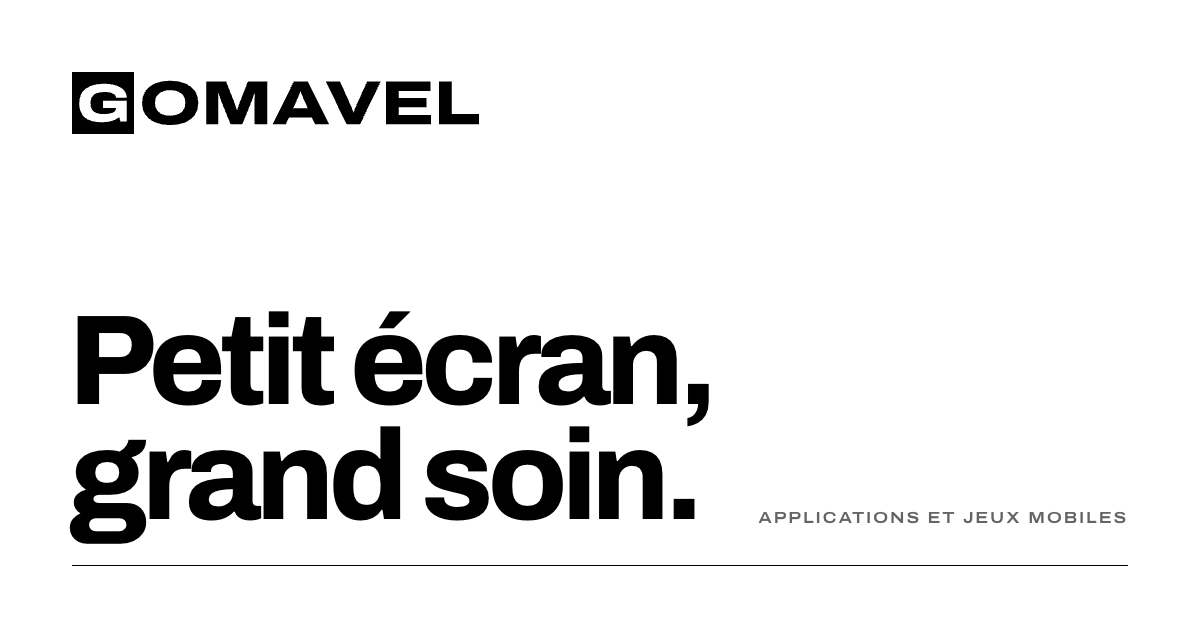
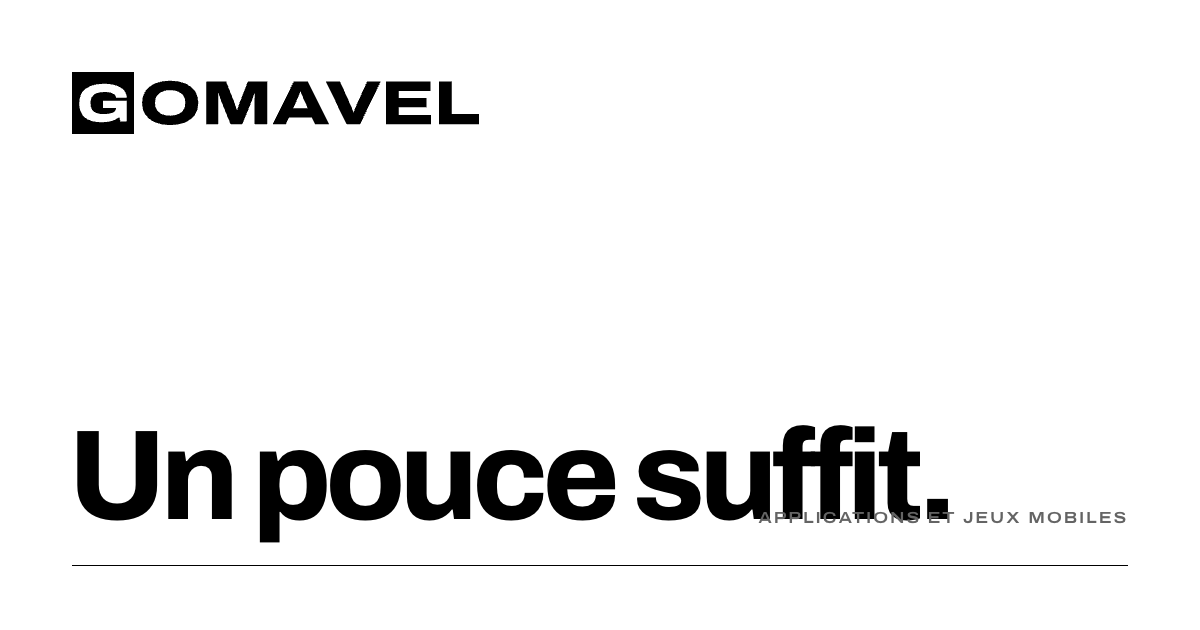
Menu rangé sur téléphone, page Nouveautés, accroche « Un pouce suffit. »
D'après supercell.com : trois traits à droite du logo qui ouvrent un panneau noir
listant les jeux ; un fil de nouveautés étiquetées par produit ; « Grand soin »
remplacé par « Les chances affichées ».

Changed region(s): [[0.0617, 0.4825, 0.8017, 0.8746]]

diff --git a/src/styles/global.css b/src/styles/global.css
@@ -142,15 +142,60 @@ p { text-wrap: pretty; }
 
 /* ─── En-tête ────────────────────────────────────────────────────────────────── */
 .entete { position: relative; z-index: 10; background: var(--blanc); }
-.entete-in { min-height: var(--entete); display: flex; align-items: center; justify-content: space-between; gap: 12px 24px; flex-wrap: wrap; padding-block: 18px; }
-.entete nav ul { display: flex; gap: 6px 30px; flex-wrap: wrap; }
-.entete nav a { font-size: 15px; font-weight: 500; text-decoration: none; padding-block: 4px; }
-.entete nav a[aria-current='page'] { background: linear-gradient(currentColor, currentColor) 0 100% / 100% 1px no-repeat; }
-@media (max-width: 520px) {
-  .entete nav ul { gap: 4px 20px; }
-  .entete nav a { font-size: 14px; }
+.entete-in { min-height: var(--entete); display: flex; align-items: center; justify-content: space-between; gap: 12px 24px; padding-block: 18px; }
+.nav-large ul { display: flex; gap: 6px 30px; flex-wrap: wrap; }
+.nav-large a { font-size: 15px; font-weight: 500; text-decoration: none; padding-block: 4px; }
+.nav-large a[aria-current='page'] { background: linear-gradient(currentColor, currentColor) 0 100% / 100% 1px no-repeat; }
+
+/* LE MENU RANGÉ (téléphone et tablette) : trois traits à droite du logo ; ouvert, un
+   panneau noir couvre la page sous l'en-tête, comme sur supercell.com — la bande noire
+   du studio, les jeux en gros. Les trois traits deviennent une croix. */
+.menu { display: none; }
+@media (max-width: 860px) {
+  .nav-large { display: none; }
+  .menu { display: block; }
   .logo-svg { height: 28px; }
 }
+.menu summary {
+  list-style: none; cursor: pointer; -webkit-tap-highlight-color: transparent;
+  display: grid; place-items: center; width: 48px; height: 48px; margin-right: -12px;
+}
+.menu summary::-webkit-details-marker { display: none; }
+.traits { position: relative; width: 26px; height: 18px; }
+.traits span {
+  position: absolute; left: 0; width: 100%; height: 2px; background: var(--noir);
+  transition: transform .35s var(--ease), opacity .2s;
+}
+.traits span:nth-child(1) { top: 0; }
+.traits span:nth-child(2) { top: 8px; }
+.traits span:nth-child(3) { top: 16px; }
+.menu[open] .traits span:nth-child(1) { transform: translateY(8px) rotate(45deg); }
+.menu[open] .traits span:nth-child(2) { opacity: 0; }
+.menu[open] .traits span:nth-child(3) { transform: translateY(-8px) rotate(-45deg); }
+.menu-panneau {
+  position: fixed; inset: var(--entete) 0 0 0; z-index: 20; overflow-y: auto;
+  background: var(--noir); color: var(--blanc);
+  padding: 36px var(--gout) calc(40px + env(safe-area-inset-bottom));
+  display: grid; align-content: start; gap: 40px;
+}
+@media (prefers-reduced-motion: no-preference) {
+  .menu[open] .menu-panneau { animation: panneau .4s var(--ease); }
+}
+@keyframes panneau { from { opacity: 0; transform: translateY(-12px); } }
+.menu-panneau .label { color: var(--gris-noir); margin-bottom: 14px; }
+.menu-panneau a { text-decoration: none; }
+.menu-groupe li + li { margin-top: 10px; }
+.menu-groupe a {
+  display: flex; align-items: baseline; gap: 14px;
+  font-weight: 740; font-size: clamp(32px, 9vw, 48px); line-height: 1.05; letter-spacing: -.035em;
+}
+.menu-num { font-weight: 620; font-size: 12px; font-stretch: 125%; letter-spacing: .12em; color: var(--gris-noir); }
+.menu-studio { border-top: 1px solid var(--filet-noir); padding-top: 24px; }
+.menu-studio li + li { margin-top: 6px; }
+.menu-studio a { display: block; padding-block: 6px; font-size: 22px; font-weight: 560; }
+.menu-panneau a[aria-current='page'] { text-decoration: underline; text-decoration-thickness: 2px; }
+/* Menu ouvert : la page dessous ne défile plus. */
+html:has(.menu[open]) { overflow: hidden; }
 
 /* ─── Accueil : l'accroche ───────────────────────────────────────────────────── */
 .ouverture { padding-block: clamp(48px, 9vw, 132px) clamp(56px, 8vw, 112px); }
@@ -337,3 +382,43 @@ p { text-wrap: pretty; }
 @media (prefers-reduced-motion: reduce) {
   *, *::before, *::after { animation-duration: .001ms !important; animation-iteration-count: 1 !important; transition-duration: .001ms !important; scroll-behavior: auto !important; }
 }
+
+/* ─── Nouveautés ─────────────────────────────────────────────────────────────── */
+/* Un fil de cartes, comme sur supercell.com : l'étiquette du produit en capitales dans un
+   filet noir, l'état ou la date, le titre, deux phrases. L'image du produit, quand il y en
+   a une, est posée dans le cadre à passe-partout (la couleur n'entre que par là). */
+.fil { margin-top: clamp(48px, 7vw, 88px); }
+.cartes { margin-top: 18px; border-top: 1px solid var(--noir); }
+.carte {
+  display: grid; grid-template-columns: 200px minmax(0, 1fr); gap: 20px clamp(24px, 4vw, 48px);
+  align-items: center; padding-block: clamp(24px, 3vw, 36px); border-bottom: 1px solid var(--filet);
+}
+.carte.sans-image { grid-template-columns: minmax(0, 1fr); }
+.carte-image { padding: var(--mat); }
+.carte-image img { width: 100%; aspect-ratio: 1; object-fit: contain; }
+.carte-texte { max-width: 60ch; }
+.carte-meta { display: flex; align-items: center; flex-wrap: wrap; gap: 8px 14px; font-size: 14px; }
+.etiquette {
+  font-weight: 620; font-size: 11px; line-height: 1; font-stretch: 125%; letter-spacing: .12em; text-transform: uppercase;
+  border: 1px solid var(--noir); padding: 7px 10px 6px; text-decoration: none;
+}
+a.etiquette:hover { background: var(--noir); color: var(--blanc); }
+.carte h3 { margin-top: 14px; font-weight: 720; font-size: clamp(24px, 3vw, 34px); line-height: 1.08; letter-spacing: -.03em; }
+.carte h3 + p { margin-top: 10px; color: #333; max-width: 52ch; }
+/* Sur téléphone, l'image passe à droite de l'étiquette et du titre, et les deux phrases
+   reprennent toute la largeur dessous (sinon une colonne de quatre mots par ligne). */
+@media (max-width: 760px) {
+  .carte { grid-template-columns: minmax(0, 1fr) 96px; grid-template-areas: 'meta image' 'titre image' 'texte texte'; gap: 0 16px; align-items: start; }
+  .carte.sans-image { grid-template-areas: 'meta' 'titre' 'texte'; }
+  .carte-texte { display: contents; }
+  .carte-meta { grid-area: meta; }
+  .carte h3 { grid-area: titre; }
+  .carte h3 + p { grid-area: texte; }
+  .carte-image { grid-area: image; padding: 6px; }
+}
+
+/* ─── Accueil : le renvoi vers les nouveautés ───────────────────────────────── */
+.renvoi { padding-block: clamp(72px, 10vw, 140px); display: grid; grid-template-columns: minmax(0, 1fr) auto; gap: 24px 48px; align-items: end; }
+.renvoi .label { color: var(--gris); }
+.renvoi h2 { margin-top: 16px; font-weight: 740; font-size: clamp(32px, 4.6vw, 64px); line-height: 1; letter-spacing: -.04em; max-width: 16ch; }
+@media (max-width: 760px) { .renvoi { grid-template-columns: minmax(0, 1fr); } }

diff --git a/src/data/nouveautes.js b/src/data/nouveautes.js
@@ -1,0 +1,74 @@
+/**
+ * LES NOUVEAUTÉS — ce qui arrive, puis ce qui est déjà arrivé.
+ *
+ * Sa demande du 12/10, d'après supercell.com (dont l'accueil est un fil d'actualités,
+ * chaque carte étiquetée du nom de son jeu) : « une page d'info sur les nouveautés qui
+ * arrivent ». Une entrée = une carte : l'étiquette (le produit, ou le studio), l'état,
+ * un titre, deux phrases, et parfois une image du produit dans un cadre (la couleur
+ * n'entre que par là, la règle du site).
+ *
+ * ⚠ CE QUI EST ANNONCÉ ICI DOIT ÊTRE DÉCIDÉ DANS LE DÉPÔT DU JEU (relu contre
+ * ninja-runner/A-FAIRE.md le 12/10/2026) :
+ *   - la roue du jour : W1, ses 24 réponses du 11/10 (3 tours par jour chacun contre une
+ *     pub, pièces, diamants, caisse, caisse rare qu'on ne trouve que là, chances derrière
+ *     un « i ») ; la sauvegarde et les images sont faites, l'écran pas encore ;
+ *   - le compte : A15, sa réponse du 30/09 (Apple, Google, e-mail ; pas de téléphone) ;
+ *     il attend son projet Firebase et le programme Apple : d'où « En préparation » ;
+ *   - les huit langues : A14, faites le 30/09, la dernière passe avant la sortie ;
+ *   - AUCUNE DATE pour ce qui arrive : la date de sortie est levée depuis le 30/09
+ *     (« je préfère prendre mon temps »). « Bientôt » = c'est en cours de construction ;
+ *     « En préparation » = décidé, pas commencé.
+ * Le jour où une nouveauté sort dans le jeu, elle passe en `etat: 'sorti'` avec sa date
+ * et descend dans le journal.
+ *
+ * Le ton suit la règle du site : « tu » quand c'est un jeu qui parle, « vous » le studio.
+ */
+import caisseRare from '../assets/nouveautes/roue-caisse-rare.png';
+import kage from '../assets/produits/shuriken-storm/ninja-kage.png';
+
+export const ETATS = {
+  bientot: 'Bientôt',
+  preparation: 'En préparation',
+  sorti: 'Sorti',
+};
+
+export const NOUVEAUTES = [
+  {
+    produit: 'shuriken-storm',
+    etat: 'bientot',
+    titre: 'La roue du jour',
+    texte:
+      'Trois tours de roue chaque jour : des pièces, des diamants, une caisse, et parfois la caisse rare, qu’on ne trouve nulle part ailleurs. Les chances de chaque case sont écrites à côté.',
+    image: { src: caisseRare, alt: 'La caisse rare : une caisse bleu nuit cerclée d’or, un œuf doré sur la serrure.' },
+  },
+  {
+    produit: 'shuriken-storm',
+    etat: 'bientot',
+    titre: 'La sortie sur iPhone et Android',
+    texte:
+      'Shuriken Storm arrive sur l’App Store et Google Play. Pas de date : il sortira quand il sera prêt, pas avant.',
+    image: { src: kage, alt: 'Kage, le ninja bleu nuit à l’écharpe turquoise, en pleine course.' },
+  },
+  {
+    produit: 'shuriken-storm',
+    etat: 'bientot',
+    titre: 'Huit langues dès le premier jour',
+    texte:
+      'Français, anglais, allemand, espagnol, italien, portugais du Brésil, russe et chinois simplifié.',
+  },
+  {
+    produit: 'shuriken-storm',
+    etat: 'preparation',
+    titre: 'Ta partie sur tous tes appareils',
+    texte:
+      'Un compte, par Apple, Google ou e-mail, pour retrouver ta progression sur un autre téléphone et ne jamais la perdre.',
+  },
+  {
+    produit: null,
+    etat: 'sorti',
+    date: '2026-10-12',
+    titre: 'Gomavel ouvre son site',
+    texte:
+      'Chaque application et chaque jeu du studio y aura sa page, numérotée dans l’ordre de sortie. Shuriken Storm est le N°01.',
+  },
+];

diff --git a/src/data/site.js b/src/data/site.js
@@ -5,7 +5,13 @@
  *   - le studio fait des applications ET des jeux mobiles (des fiches de révision un
  *     jour, pas seulement des jeux) : rien ici ne doit parler du studio comme d'un
  *     studio de jeux vidéo seulement ;
- *   - l'accroche : « Petit écran, grand soin. » ;
+ *   - l'accroche : « Un pouce suffit. » (12/10 au soir). « Petit écran, grand soin. » (12/10) a été
+ *     retirée sur sa note « le slogan, faut vraiment le retravailler, mais je sais pas
+ *     comment » : « grand soin » ne disait rien qu'on puisse vérifier. Celle-ci est une
+ *     promesse concrète, vraie de Shuriken Storm (un seul geste, toucher pour sauter) et
+ *     qui devient une RÈGLE pour les produits suivants, applis de révision comprises :
+ *     tout doit se faire d'un pouce. Avis d'Astra : n° 2 de son classement, derrière
+ *     « À portée de pouce. », plus douce mais moins frappante ;
  *   - le ton : sobre pour le studio (« Gomavel… », vous), complice sur la page d'un
  *     jeu (tu), comme dans le jeu lui-même ;
  *   - rien sur la façon dont les jeux sont fabriqués ;
@@ -15,7 +21,7 @@
  */
 export const SITE = {
   nom: 'Gomavel',
-  accroche: 'Petit écran, grand soin.',
+  accroche: 'Un pouce suffit.',
   description:
     "Gomavel est un studio indépendant d'applications et de jeux mobiles, en France. Peu de produits, faits avec soin, pour iPhone et Android.",
   /* L'ADRESSE OÙ VIT LE SITE : elle fait les liens absolus (images de partage, plan du

diff --git a/src/scripts/site.js b/src/scripts/site.js
@@ -1,5 +1,5 @@
 /**
- * LES DEUX SEULS COMPORTEMENTS DU SITE, et rien d'autre.
+ * LES TROIS SEULS COMPORTEMENTS DU SITE, et rien d’autre.
  *
  * 1. LE LOGO SAUTE quand on le touche : le carré prend son élan et retombe, puis les
  *    lettres, une à une. C'est le geste du studio (planche du 12/10) ; sur l'accueil, le
@@ -48,6 +48,19 @@ document.querySelectorAll('[data-logo]').forEach((logo) => {
     sauter(logo);
   });
 });
+
+/* 3. LE MENU RANGÉ SE REFERME (il s'ouvre sans script, c'est un <details>) : Échap, un
+   lien touché (un lien vers « /#studio » depuis l'accueil ne change pas de page, le
+   panneau resterait par-dessus), et l'écran qui s'élargit au-delà du menu rangé. */
+const menu = document.querySelector('[data-menu]');
+if (menu) {
+  const fermer = () => { menu.open = false; };
+  menu.querySelectorAll('.menu-panneau a').forEach((a) => a.addEventListener('click', fermer));
+  addEventListener('keydown', (e) => {
+    if (e.key === 'Escape' && menu.open) { fermer(); menu.querySelector('summary').focus(); }
+  });
+  matchMedia('(min-width: 861px)').addEventListener('change', (m) => { if (m.matches) fermer(); });
+}
 
 if (!reduit.matches && 'IntersectionObserver' in window) {
   const io = new IntersectionObserver((entrees) => {
